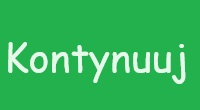
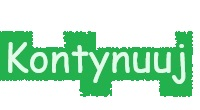
Dodanie animacji (testowej); poprawiony screen GAME OVER (nadal do poprawy)

diff --git a/student_invaders.py b/student_invaders.py
@@ -32,16 +32,23 @@ pocisk_wroga1 = pygame.image.load(os.path.join("images","pocisk_wróg1.png"))
 pocisk_wroga2 = pygame.image.load(os.path.join("images","pocisk2.png"))
 
 start = pygame.image.load(os.path.join("images","START.png"))
+start1 = pygame.image.load(os.path.join("images","START1.png"))
 exit = pygame.image.load(os.path.join("images","EXIT.png"))
+exit1 = pygame.image.load(os.path.join("images","EXIT1.png"))
 
 wznów = pygame.image.load(os.path.join("images","kontynuuj.jpg"))
+wznów1 = pygame.image.load(os.path.join("images","kontynuuj1.jpg"))
 wyjdź = pygame.image.load(os.path.join("images","wyjdź.jpg"))
+wyjdź1 = pygame.image.load(os.path.join("images","wyjdź1.jpg"))
 
 włączony = pygame.image.load(os.path.join("images","włączony.jpg"))
+włączony1 = pygame.image.load(os.path.join("images","włączony1.jpg"))
 wyłączony = pygame.image.load(os.path.join("images","wyłączony.jpg"))
+wyłączony1 = pygame.image.load(os.path.join("images","wyłączony1.jpg"))
 
 jak_grać = pygame.image.load(os.path.join("images","jak.jpg"))
 instrukcja = pygame.image.load(os.path.join("images","instrukcja.jpg"))
+instrukcja1 = pygame.image.load(os.path.join("images","instrukcja1.jpg"))
 
 # DŹWIĘKI
 dźwięk_strzału = pygame.mixer.Sound(os.path.join("sounds","laser.mp3"))
@@ -66,20 +73,33 @@ class Byt:
 # KLASA PRZYCISK
 class Przycisk(Byt):
     """Klasa zawierająca funkcjonalność przycisków"""
-    def __init__(self, x, y, image):
+    def __init__(self, x, y, image, image1):
         self.image = image
+        self.image1 = image1
         self.rect = self.image.get_rect()
         self.rect.topleft = (x, y)
     
-    def RysujPrzycisk(self):
-        """Ustawia dany przycisk na odpowiednie miejsce"""
-        okienko.blit(self.image, (self.rect.x, self.rect.y))
+    #def RysujPrzycisk(self):
+     #   """Ustawia dany przycisk na odpowiednie miejsce"""
+      #  if Przycisk.CzyMyszka(self):
+       #     okienko.blit(self.image1, (self.rect.x, self.rect.y))
+        #else:
+        #   okienko.blit(self.image, (self.rect.x, self.rect.y))
     
-    def CzyMyszka(self):
-        """Sprawdza, czy myszka jest "na powierzchni" przycisku"""
+    #def CzyMyszka(self):
+     #   """Sprawdza, czy myszka jest "na powierzchni" przycisku"""
+      #  myszka = pygame.mouse.get_pos()
+       # if self.rect.collidepoint(myszka):
+        #    return True
+        #return False
+    
+    def CzyMyszka_i_RysujPrzycisk(self):
+        """Sprawdza, czy myszka jest "na powierzchni" przycisku i wyświetla odpowiedni obraz"""
         myszka = pygame.mouse.get_pos()
         if self.rect.collidepoint(myszka):
+            okienko.blit(self.image1, (self.rect.x, self.rect.y))
             return True
+        okienko.blit(self.image, (self.rect.x, self.rect.y))
         return False
 
 # KLASA GRACZ
@@ -375,39 +395,43 @@ def kolizja(obiekt1, obiekt2):
     """Sprawdza kolizję między dwoma obiektami, zwraca prawdę lub fałsz."""
     ramka_x = obiekt2.x - obiekt1.x
     ramka_y = obiekt2.y - obiekt1.y
-    return obiekt1.mask.overlap(obiekt2.mask, (ramka_x, ramka_y)) != None 
+    return obiekt1.mask.overlap(obiekt2.mask, (ramka_x, ramka_y)) != None
 
-WZNÓW = Przycisk(0, 200, wznów)
-WYJDŹ = Przycisk(200, 200, wyjdź)
+WZNÓW = Przycisk(0, 200, wznów, wznów1)
+WYJDŹ = Przycisk(200, 200, wyjdź, wyjdź1)
 
 menu = True
-START = Przycisk(0, 0, start)
-EXIT = Przycisk(450, 0, exit)
-INSTRUKCJA = Przycisk(0, 500, instrukcja)
+START = Przycisk(0, 0, start, start1)
+EXIT = Przycisk(450, 0, exit, exit1)
+INSTRUKCJA = Przycisk(0, 500, instrukcja, instrukcja1)
+
 dźwięk = True
 czy_instrukcja = False
+śmierć = False
 
 while menu:
     while czy_instrukcja:
         okienko.blit(jak_grać, (0, 0))
-        INSTRUKCJA.RysujPrzycisk()
+        INSTRUKCJA.CzyMyszka_i_RysujPrzycisk()
         pygame.display.update()
         for zdarzenie in pygame.event.get():
             if zdarzenie.type == pygame.QUIT:
                 graj = False
                 menu = False
                 czy_instrukcja = False
-            elif (zdarzenie.type == pygame.KEYDOWN and zdarzenie.key == pygame.K_ESCAPE) or (zdarzenie.type == pygame.MOUSEBUTTONUP and INSTRUKCJA.CzyMyszka()):
+            elif (zdarzenie.type == pygame.KEYDOWN and zdarzenie.key == pygame.K_ESCAPE) or (zdarzenie.type == pygame.MOUSEBUTTONUP and INSTRUKCJA.CzyMyszka_i_RysujPrzycisk()):
                 czy_instrukcja = False
     okienko.fill('black')
-    START.RysujPrzycisk()
-    EXIT.RysujPrzycisk()
-    INSTRUKCJA.RysujPrzycisk()
     if dźwięk:
-        DŹWIĘK = Przycisk(400, 200, włączony)
+        DŹWIĘK = Przycisk(450, 500, włączony, włączony1)
     else:
-        DŹWIĘK = Przycisk(400, 200, wyłączony)
-    DŹWIĘK.RysujPrzycisk()
+        DŹWIĘK = Przycisk(450, 500, wyłączony, wyłączony1)
+    
+    DŹWIĘK.CzyMyszka_i_RysujPrzycisk()
+    START.CzyMyszka_i_RysujPrzycisk()
+    EXIT.CzyMyszka_i_RysujPrzycisk()
+    INSTRUKCJA.CzyMyszka_i_RysujPrzycisk()
+    
     pygame.display.update()
     for zdarzenie in pygame.event.get():
         if zdarzenie.type == pygame.QUIT:
@@ -422,16 +446,16 @@ while menu:
                 graj = False
                 menu = False
         elif zdarzenie.type == pygame.MOUSEBUTTONUP:
-            if START.CzyMyszka():
+            if START.CzyMyszka_i_RysujPrzycisk():
                 graj = True
                 if dźwięk: pygame.mixer.music.play(-1, 0)
                 menu = False
-            elif EXIT.CzyMyszka():
+            elif EXIT.CzyMyszka_i_RysujPrzycisk():
                 menu = False
                 graj = False
-            elif DŹWIĘK.CzyMyszka():
+            elif DŹWIĘK.CzyMyszka_i_RysujPrzycisk():
                 dźwięk = not dźwięk
-            elif INSTRUKCJA.CzyMyszka():
+            elif INSTRUKCJA.CzyMyszka_i_RysujPrzycisk():
                 czy_instrukcja = True
 
 while graj:
@@ -443,9 +467,13 @@ while graj:
             gdzie_przeciwnik = random.choice(podział_okienka)
             przeciwnik.ustawPrzeciwnika(gdzie_przeciwnik, - przeciwnik.wys - 2)
             enemyList.append(przeciwnik)
-        if zdarzenie.type == pygame.KEYDOWN and zdarzenie.key == pygame.K_ESCAPE:
-            pauza = not pauza
-            pygame.mixer.music.set_volume(.03)
+        if zdarzenie.type == pygame.KEYDOWN:
+            if zdarzenie.key == pygame.K_ESCAPE:
+                pauza = not pauza
+                pygame.mixer.music.set_volume(.03)
+            elif zdarzenie.key == pygame.K_c:
+                print(pygame.time.get_ticks())
+
 
         # if zdarzenie.type == strzał_wróg1:
         #     if enemyList != []:
@@ -457,8 +485,8 @@ while graj:
     
     if pauza:
         okienko.blit(PAUZA, (0, 0))
-        WZNÓW.RysujPrzycisk()
-        WYJDŹ.RysujPrzycisk()
+        WZNÓW.CzyMyszka_i_RysujPrzycisk()
+        WYJDŹ.CzyMyszka_i_RysujPrzycisk()
         pygame.display.update() # to ważne, nie usuwać
         for zdarzenie in pygame.event.get():
             if zdarzenie.type == pygame.QUIT:
@@ -471,10 +499,10 @@ while graj:
                     graj = False
                     pauza = False
             elif zdarzenie.type == pygame.MOUSEBUTTONDOWN:
-                if WZNÓW.CzyMyszka():
+                if WZNÓW.CzyMyszka_i_RysujPrzycisk():
                     pygame.mixer.music.set_volume(.25)
                     pauza = False
-                elif WYJDŹ.CzyMyszka():
+                elif WYJDŹ.CzyMyszka_i_RysujPrzycisk():
                     graj = False
                     pauza = False
         continue # continue powoduje, że pętla graj zaczyna się na nowo, więc dopóki nie skończymy pauzy, to nic nie będzie się poruszało
@@ -544,12 +572,33 @@ while graj:
     
     if zdrowie.hp <= 0 :
         pygame.mixer.stop()
-        okienko.blit(GAME_OVER,(0,0))
-        pygame.display.update()
-        game_over = pygame.mixer.Sound('./music/game_over.mp3')
-        muza = pygame.mixer.music.load(os.path.join("music","game_over.mp3"))
-        if dźwięk: pygame.mixer.music.play(-1, 0)
-        pygame.time.wait(int(game_over.get_length()) * 1000)
+        #okienko.blit(GAME_OVER,(0,0))
+        #pygame.display.update()
+        #game_over = pygame.mixer.Sound('./music/game_over.mp3')
+        #muza = pygame.mixer.music.load(os.path.join("music","game_over.mp3"))
+        #if dźwięk:
+        #    pygame.mixer.music.play(-1, 0)
+       # pygame.time.wait(int(game_over.get_length()) * 1000)
         graj = False
+        śmierć = True
+
+game_over = pygame.mixer.Sound('./music/game_over.mp3')
+muza = pygame.mixer.music.load(os.path.join("music","game_over.mp3"))
+if dźwięk:
+    pygame.mixer.music.play(-1, 0)
+
+czas_śmierci = pygame.time.get_ticks()
+n = 0
+
+while n <= game_over.get_length() * FPS and śmierć:
+    okienko.blit(GAME_OVER, (0, 0))
+    if n%10 == 0: #rodzaj testu czy aby na pewno nie wywala okienka
+        okienko.blit(font.render("AAA",True,(255,255,255)),(0,0))
+    else:
+        okienko.blit(font.render("BBBBB",True,(255,0,255)),(0,0))
+    pygame.display.update()
+    n += 1
+#DO ZMIANY
+print(pygame.time.get_ticks() - czas_śmierci)
 
 pygame.quit()
